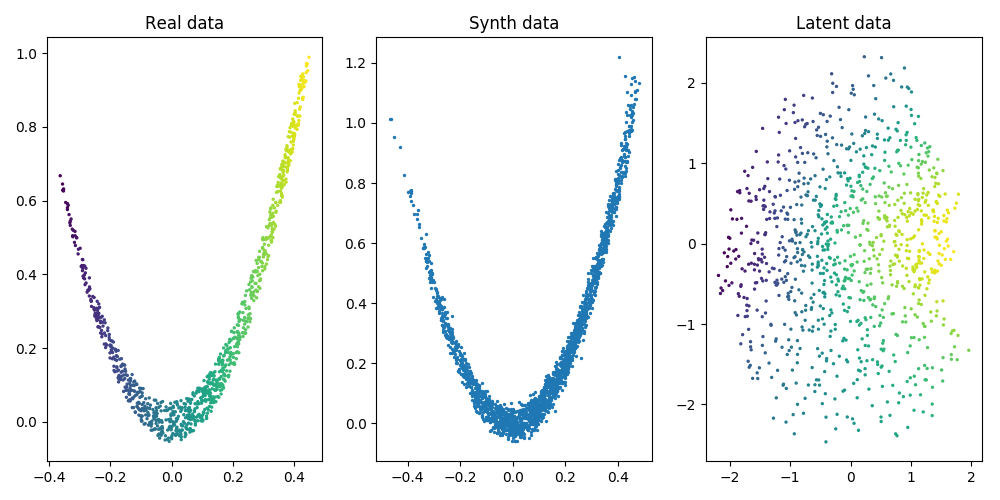
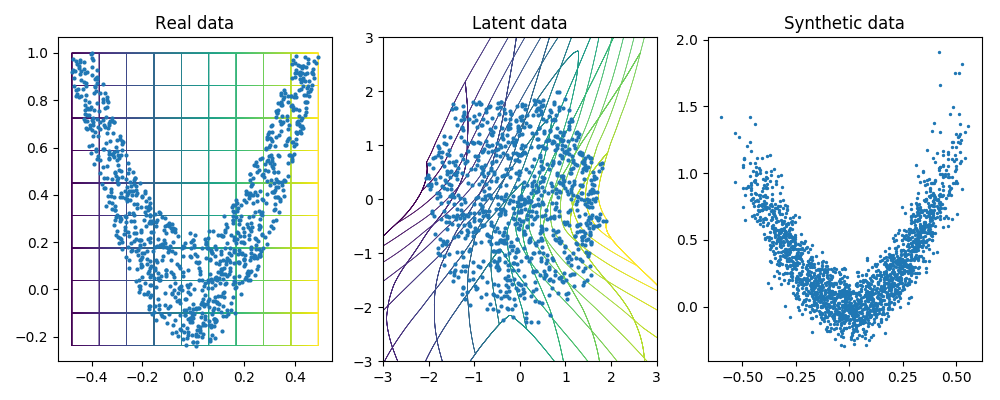
Plot grid

diff --git a/src/trainer.py b/src/trainer.py
@@ -406,7 +406,7 @@ class Trainer(object):
 
         return val_loss / len(loader.dataset)
 
-    def _train_plot(self, model, dataset):
+    def _train_plot(self, model, dataset, plot_grid=True):
 
         model.eval()
         with torch.no_grad():
@@ -414,6 +414,18 @@ class Trainer(object):
             x_data = torch.from_numpy(dataset).float()
             z, _ = model(x_data)
             z = z.detach().cpu().numpy()
+            if plot_grid:
+                grid = []
+                for x in np.linspace(np.min(dataset[:, 0]), np.max(dataset[:, 0]), 10):
+                    for y in np.linspace(np.min(dataset[:, 1]), np.max(dataset[:, 1]), 5000):
+                        grid.append([x, y])
+                for y in np.linspace(np.min(dataset[:, 1]), np.max(dataset[:, 1]), 10):
+                    for x in np.linspace(np.min(dataset[:, 0]), np.max(dataset[:, 0]), 5000):
+                        grid.append([x, y])
+                grid = np.array(grid)
+                x_grid = torch.from_numpy(grid).float()
+                z_grid, _ = model(x_grid)
+                z_grid = z_grid.detach().cpu().numpy()
 
         if self.writer is not None:
             fig, ax = plt.subplots(2, figsize=(5, 10))
@@ -422,13 +434,19 @@ class Trainer(object):
             self.writer.add_figure('latent', fig, self.total_iters)
 
         if self.path:
-            fig, ax = plt.subplots(1, 3, figsize=(10, 5))
-            ax[0].scatter(dataset[:, 0], dataset[:, 1], c=dataset[:, 0], s=2)
+            fig, ax = plt.subplots(1, 3, figsize=(10, 4))
+            if plot_grid:
+                ax[0].scatter(grid[:, 0], grid[:, 1], c=grid[:, 0], marker='.', s=1, linewidths=0)
+            ax[0].scatter(dataset[:, 0], dataset[:, 1], s=4)
             ax[0].set_title('Real data')
-            ax[1].scatter(x_synth[:, 0], x_synth[:, 1], s=2)
-            ax[1].set_title('Synthetic data')
-            ax[2].scatter(z[:, 0], z[:, 1], c=dataset[:, 0], s=2)
-            ax[2].set_title('Latent data')
+            if plot_grid:
+                ax[1].scatter(z_grid[:, 0], z_grid[:, 1], c=grid[:, 0], marker='.', s=1, linewidths=0)
+            ax[1].scatter(z[:, 0], z[:, 1], s=4)
+            ax[1].set_title('Latent data')
+            ax[1].set_xlim([-3, 3])
+            ax[1].set_ylim([-3, 3])
+            ax[2].scatter(x_synth[:, 0], x_synth[:, 1], s=2)
+            ax[2].set_title('Synthetic data')
             plt.tight_layout()
             plt.savefig(os.path.join(self.path, 'plots', 'plot_%s.png' % self.total_iters))
             plt.close()
